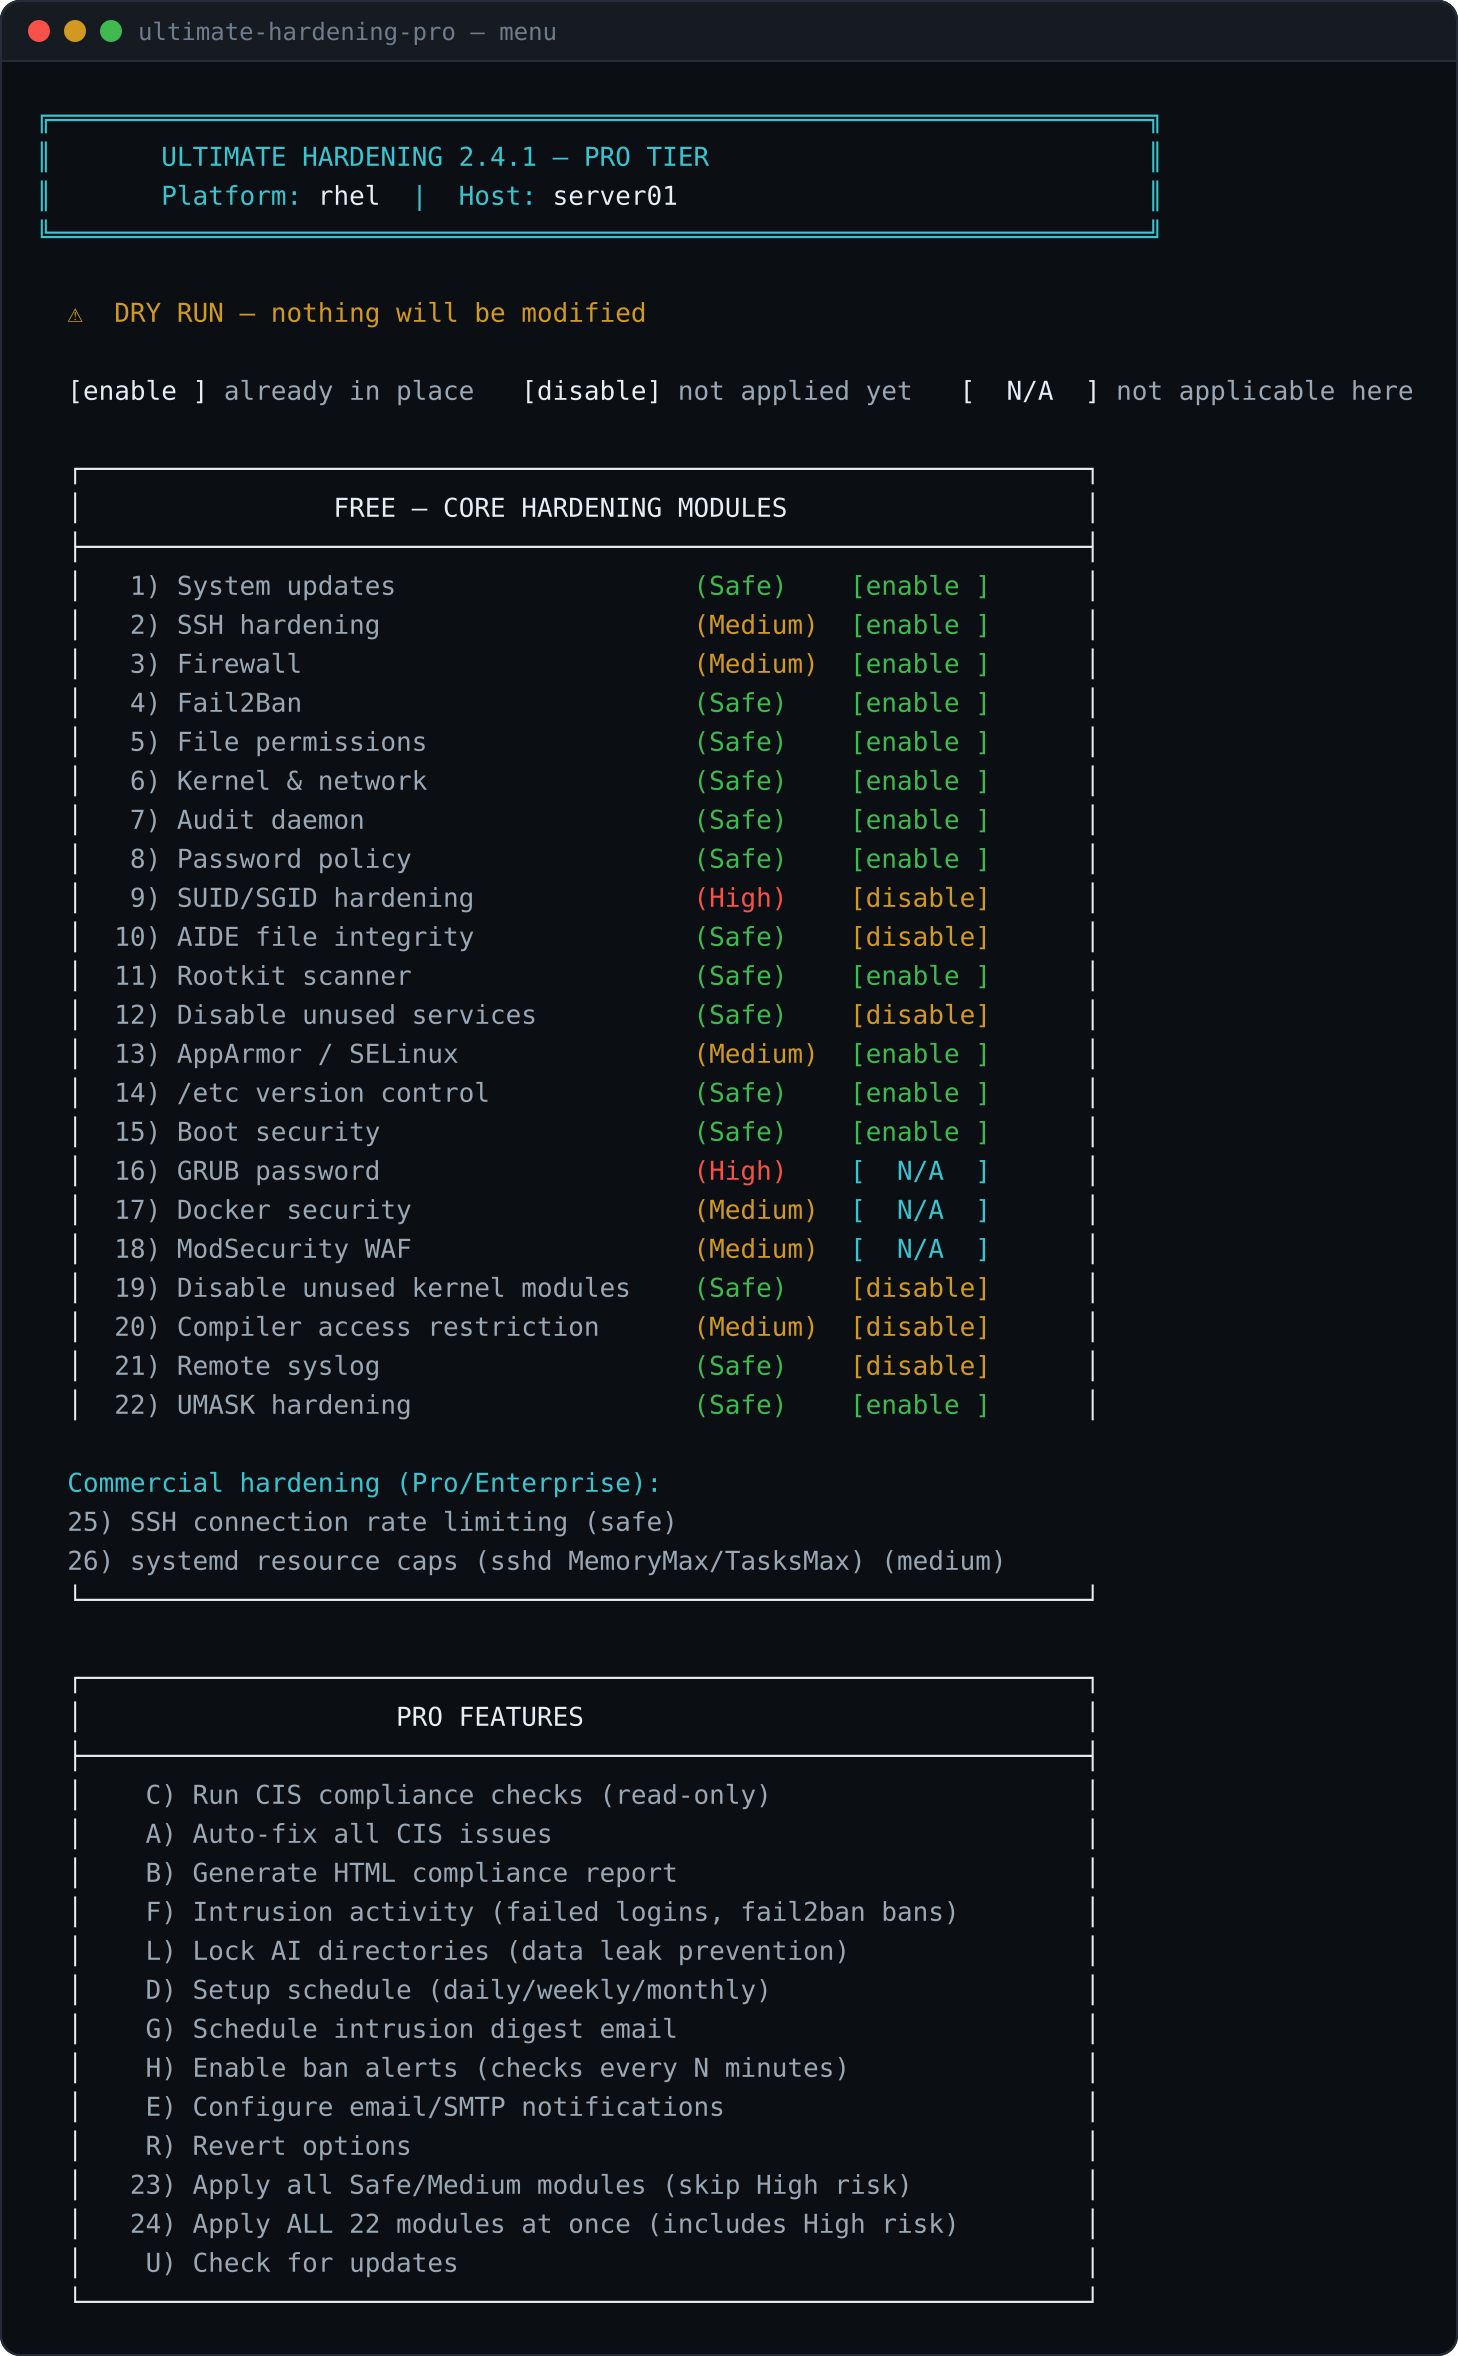
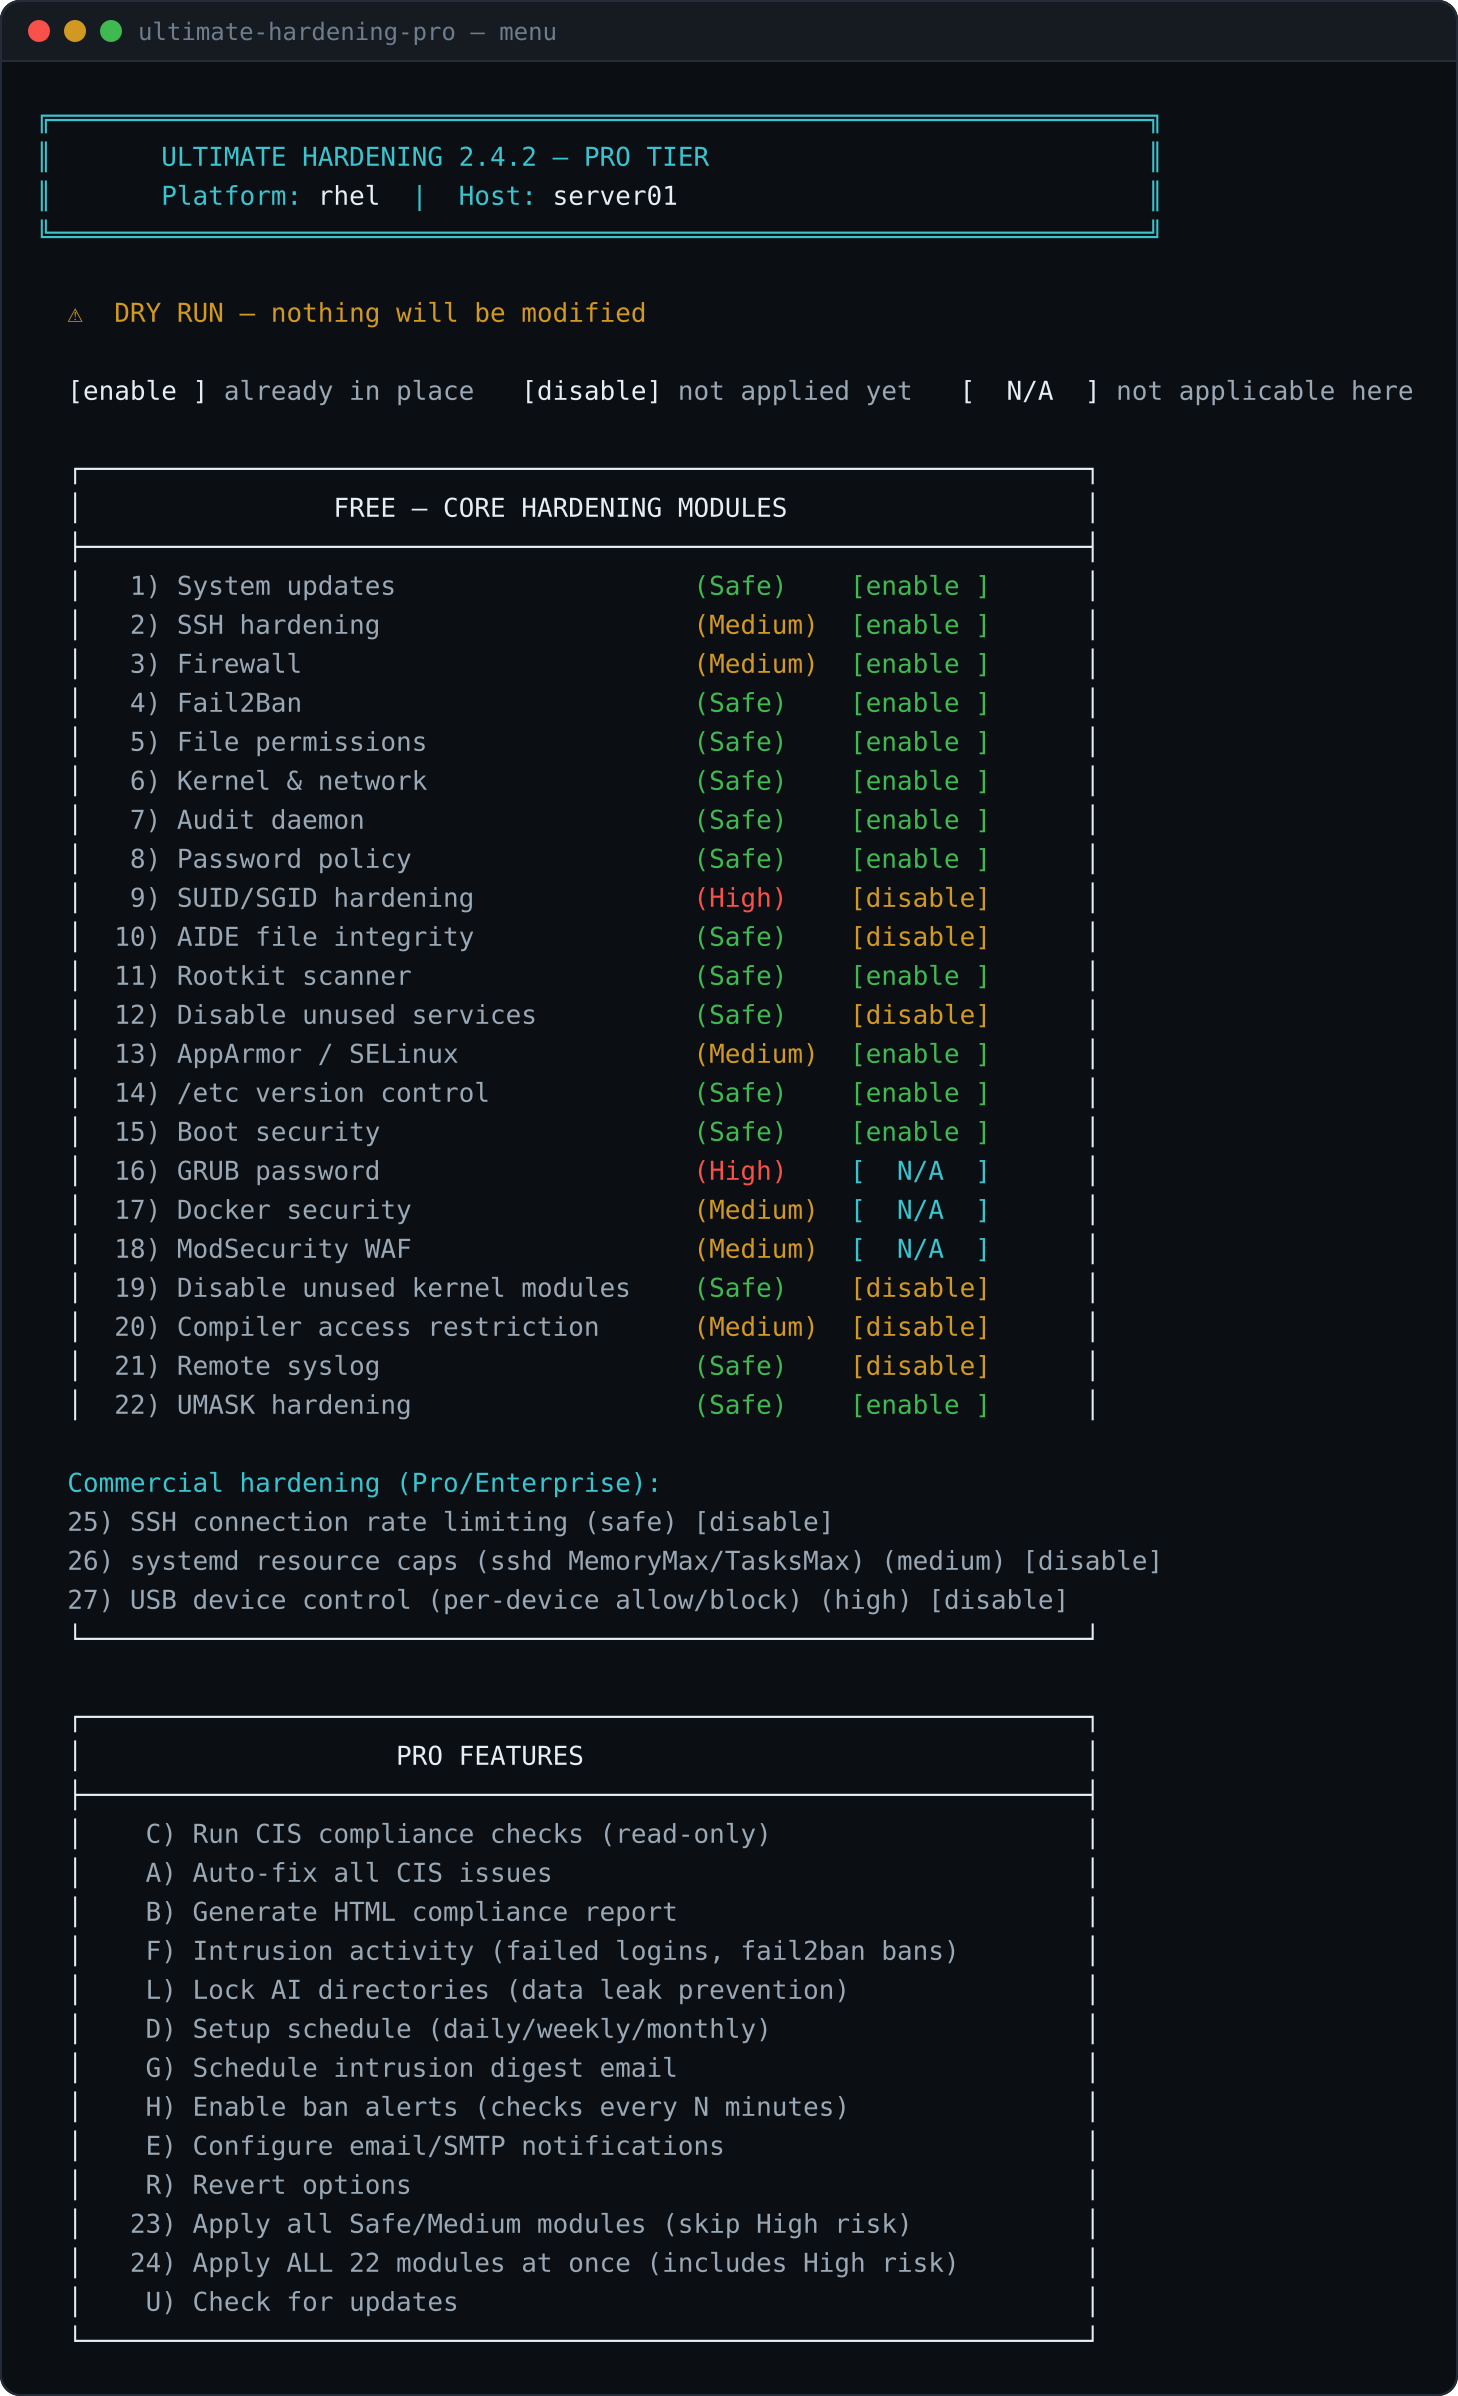
Release 2.4.2

diff --git a/docs/index.html b/docs/index.html
@@ -307,7 +307,7 @@
 
 <!-- BEGIN generated modules: ./docs/build-terminals.sh -->
 <span class="c-c">╔══════════════════════════════════════════════════════════════════╗</span>
-<span class="c-c">║</span><span class="c-c">       ULTIMATE HARDENING 2.4.1 — FREE TIER</span>                       <span class="c-c">║</span>
+<span class="c-c">║</span><span class="c-c">       ULTIMATE HARDENING 2.4.2 — FREE TIER</span>                       <span class="c-c">║</span>
 <span class="c-c">║</span><span class="c-c">       Platform: </span><span class="c-w">rhel</span>                                             <span class="c-c">║</span>
 <span class="c-c">╚══════════════════════════════════════════════════════════════════╝</span>
 
@@ -514,7 +514,7 @@
 
     <figure class="shot shot-wide">
       <button type="button" data-full="images/menu-pro.png" aria-label="Enlarge: the Pro tier menu">
-        <img src="images/menu-pro.png" alt="The Pro tier menu: the same 22 free core hardening modules in one panel, and a second panel of Pro-only features including CIS auto-fix, HTML compliance reports, AI directory locking, scheduling and email notifications." loading="lazy" width="729" height="1178">
+        <img src="images/menu-pro.png" alt="The Pro tier menu: the same 22 free core hardening modules in one panel, and a second panel of Pro-only features including CIS auto-fix, HTML compliance reports, AI directory locking, scheduling and email notifications." loading="lazy" width="729" height="1198">
       </button>
       <figcaption><b>What the paid tiers add</b>The Pro menu keeps all 22 free modules and adds a second panel. Nothing is taken out of the free tier.</figcaption>
     </figure>

diff --git a/CHANGELOG.md b/CHANGELOG.md
@@ -4,7 +4,7 @@ All notable changes to Ultimate Hardening (free tier) are documented here.
 The format is loosely based on [Keep a Changelog](https://keepachangelog.com),
 and the project follows [Semantic Versioning](https://semver.org).
 
-## [Unreleased]
+## [2.4.2] — 2026-10-15
 
 ### Fixed
 - Firewall (nftables): no longer reports success when the rules could not be
@@ -171,5 +171,6 @@ families, macOS, and the BSDs). No telemetry, no licence check, no account — t
 only outbound request is the optional, explicitly-invoked `--check-update`. MIT
 licensed.
 
+[2.4.2]: https://github.com/Kal1010101/ultimate-sys-hardening/releases/tag/v2.4.2
 [2.4.1]: https://github.com/Kal1010101/ultimate-sys-hardening/releases/tag/v2.4.1
 [2.4.0]: https://github.com/Kal1010101/ultimate-sys-hardening/releases/tag/v2.4.0
